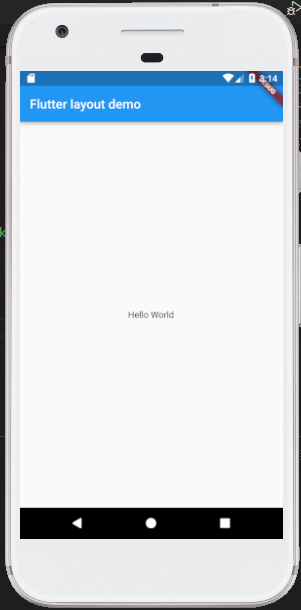
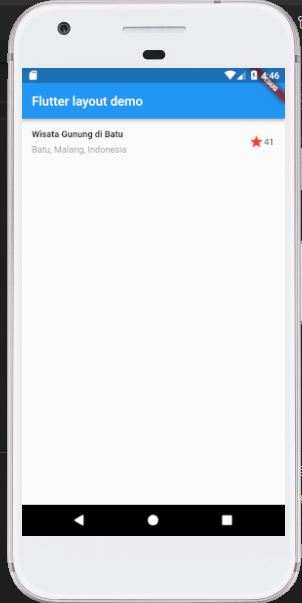
Finish Praktikum

Changed region(s): [[0.0, 0.0, 1.0, 1.0], [0.4186, 0.5075, 0.598, 0.5373]]

diff --git a/lib/main.dart b/lib/main.dart
@@ -43,16 +43,81 @@ class MyApp extends StatelessWidget {
       ),
     );
 
+    Column _buildButtonColumn(Color color, IconData icon, String label) {
+    return Column(
+      mainAxisSize: MainAxisSize.min,
+      mainAxisAlignment: MainAxisAlignment.center,
+      children: [
+        Icon(icon, color: color),
+        Container(
+          margin: const EdgeInsets.only(top: 8),
+          child: Text(
+            label,
+            style: TextStyle(
+              fontSize: 12,
+              fontWeight: FontWeight.w400,
+              color: color,
+            ),
+          ),
+        ),
+      ],
+    );
+  }
+
+  Color color = Theme.of(context).primaryColor;
+
+  Widget buttonSection = Row(
+    mainAxisAlignment: MainAxisAlignment.spaceEvenly,
+    children: [
+      _buildButtonColumn(color, Icons.call, 'CALL'),
+      _buildButtonColumn(color, Icons.near_me, 'ROUTE'),
+      _buildButtonColumn(color, Icons.share, 'SHARE'),
+    ],
+  );
+
+  Widget textSection = Container(
+    padding: const EdgeInsets.all(32),
+    child: Column(
+      children: [
+        Image.asset(
+          'assets/bns.png',
+          width: 200,
+          height: 200,
+          fit: BoxFit.cover,
+        ),
+        const SizedBox(height: 12),
+        const Text(
+          'Batu Night Spectacular (BNS) adalah salah satu destinasi wisata yang populer di Kota Batu, Jawa Timur. '
+          'BNS menawarkan pengunjungnya pengalaman hiburan malam yang unik dengan '
+          'beragam wahana, pertunjukan panggung, dan suasana yang bercahaya. '
+          'Afif Lukmanul Hakim dan 2141720262 ',
+          softWrap: true,
+        ),
+      ],
+    )
+    
+  );
+
     return MaterialApp(
-      title: 'Flutter layout: Nama dan NIM Anda',
+      title: 'Flutter layout: Afif Lukmanul Hakim dan 2141720262',
       home: Scaffold(
         appBar: AppBar(
           title: const Text('Flutter layout demo'),
         ),
-        body: const Center(
-          child: Text('Hello World'),
+        body: ListView(
+          children: [
+            Image.asset(
+              'assets/lake.jpg',
+              width: 600,
+              height: 240,
+              fit: BoxFit.cover,
+            ),
+            titleSection,
+            textSection,
+            buttonSection
+          ],
+        )
         ),
-      ),
-    );
+      );
   }
 }

diff --git a/README.md b/README.md
@@ -8,6 +8,18 @@ Praktikum 1: Membangun Layout di Flutter
 
 ![Screenshot praktikum 1](img/Screenshot_Prak1.png)
 
+Praktikum 2: Implementasi Button Row
+
+![Screenshot praktikum 2](img/Screenshot_Prak2.png)
+
+Praktikum 3: Implementasi Text Section
+
+![Screenshot praktikum 3](img/Screenshot_Prak3.png)
+
+Praktikum 4: Implementasi Image Section
+
+![Screenshot praktikum 4](img/Screenshot_Prak4.png)
+
 This project is a starting point for a Flutter application.
 
 A few resources to get you started if this is your first Flutter project:
